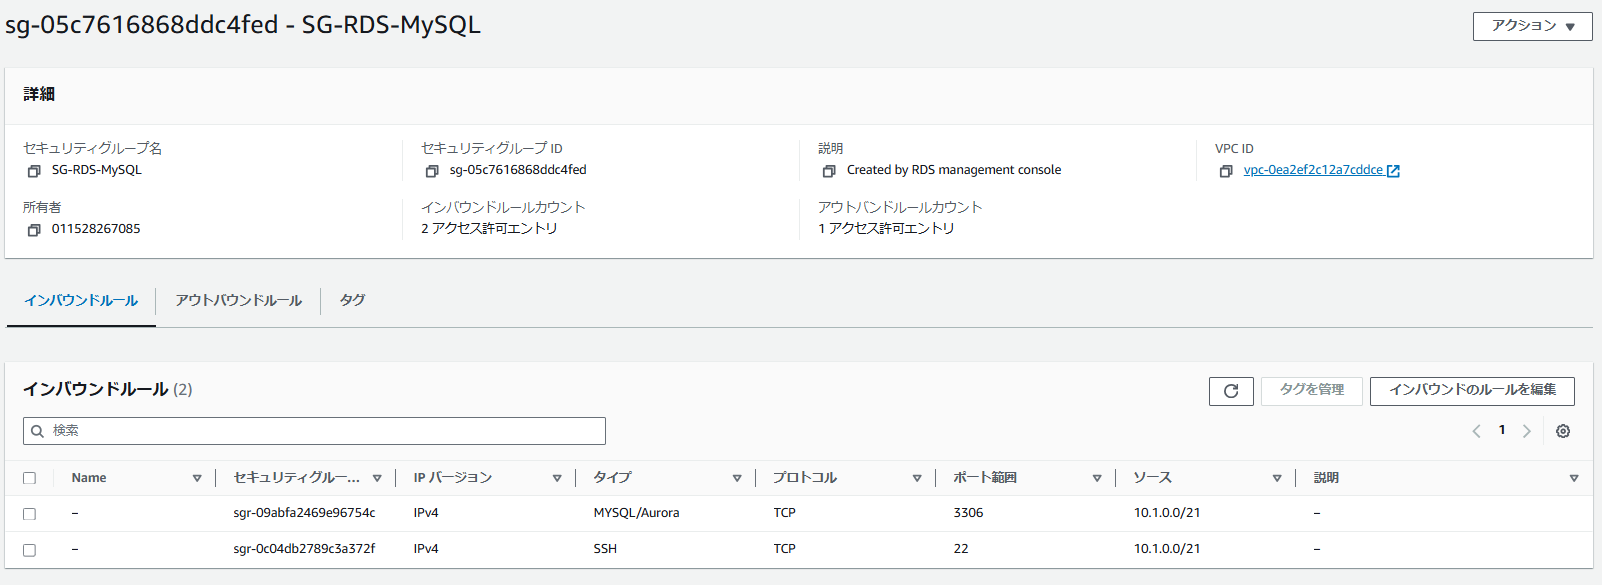
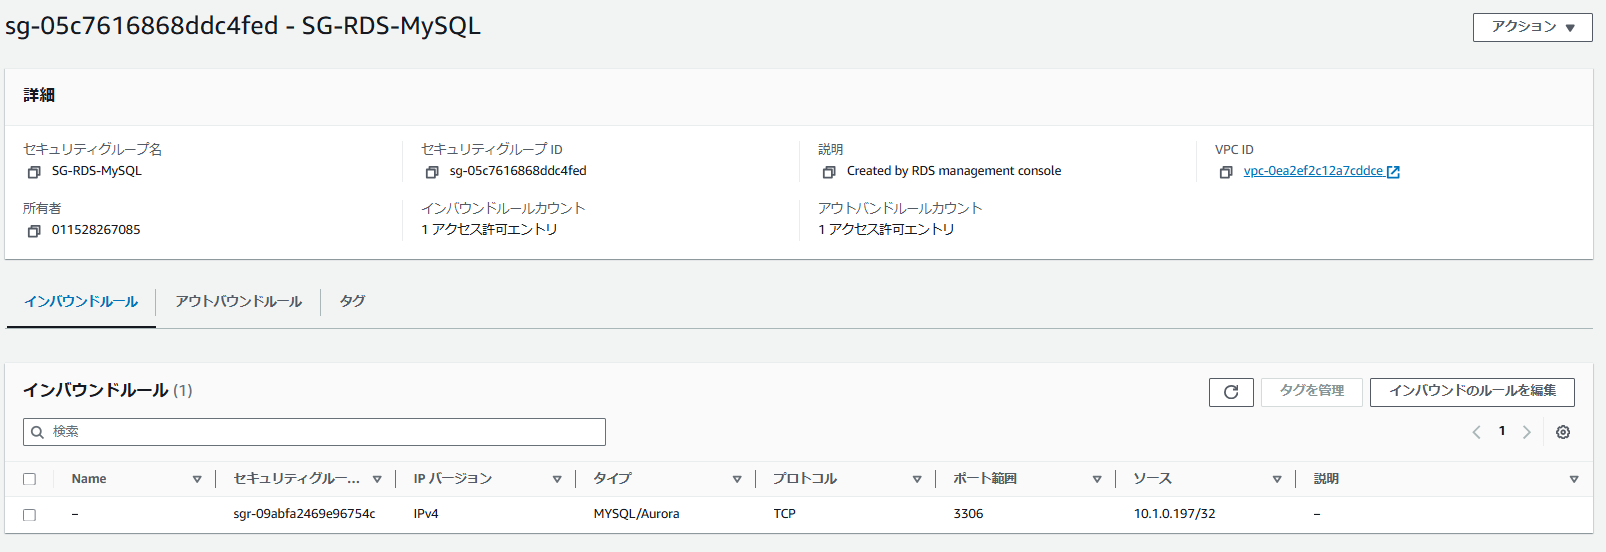
add lecture04

diff --git a/lecture04/lecture04.md b/lecture04/lecture04.md
@@ -19,8 +19,7 @@
 
 ### RDSのセキュリティグループ
 - インバウンド<br>
-[タイプ:MySQL/Aurora, プロトコル:TCP, ポート範囲:3306, ソース:作成したVPCのIP]<br>
-[タイプ:SSH, プロトコル:TCP, ポート範囲:22, ソース:作成したVPCのIP]
+[タイプ:MySQL/Aurora, プロトコル:TCP, ポート範囲:3306, ソース:作成したEC2のプライベートIPアドレス]<br>
 - アウトバウンド[全て]
 ![](image/image05.png)
 
